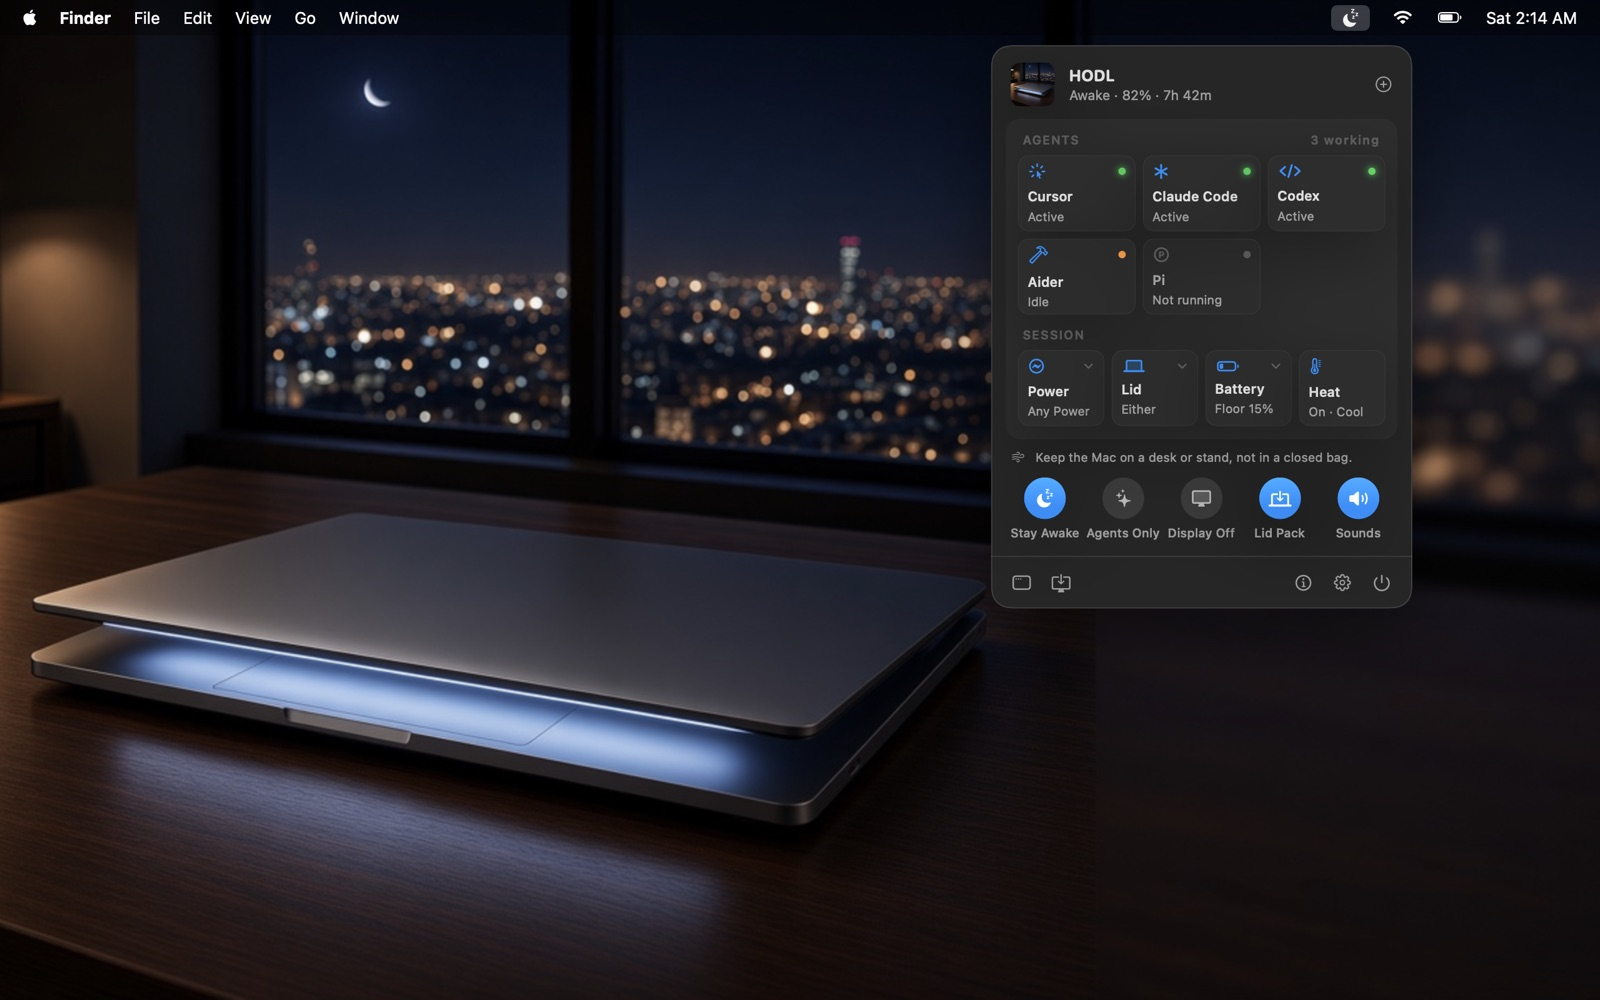
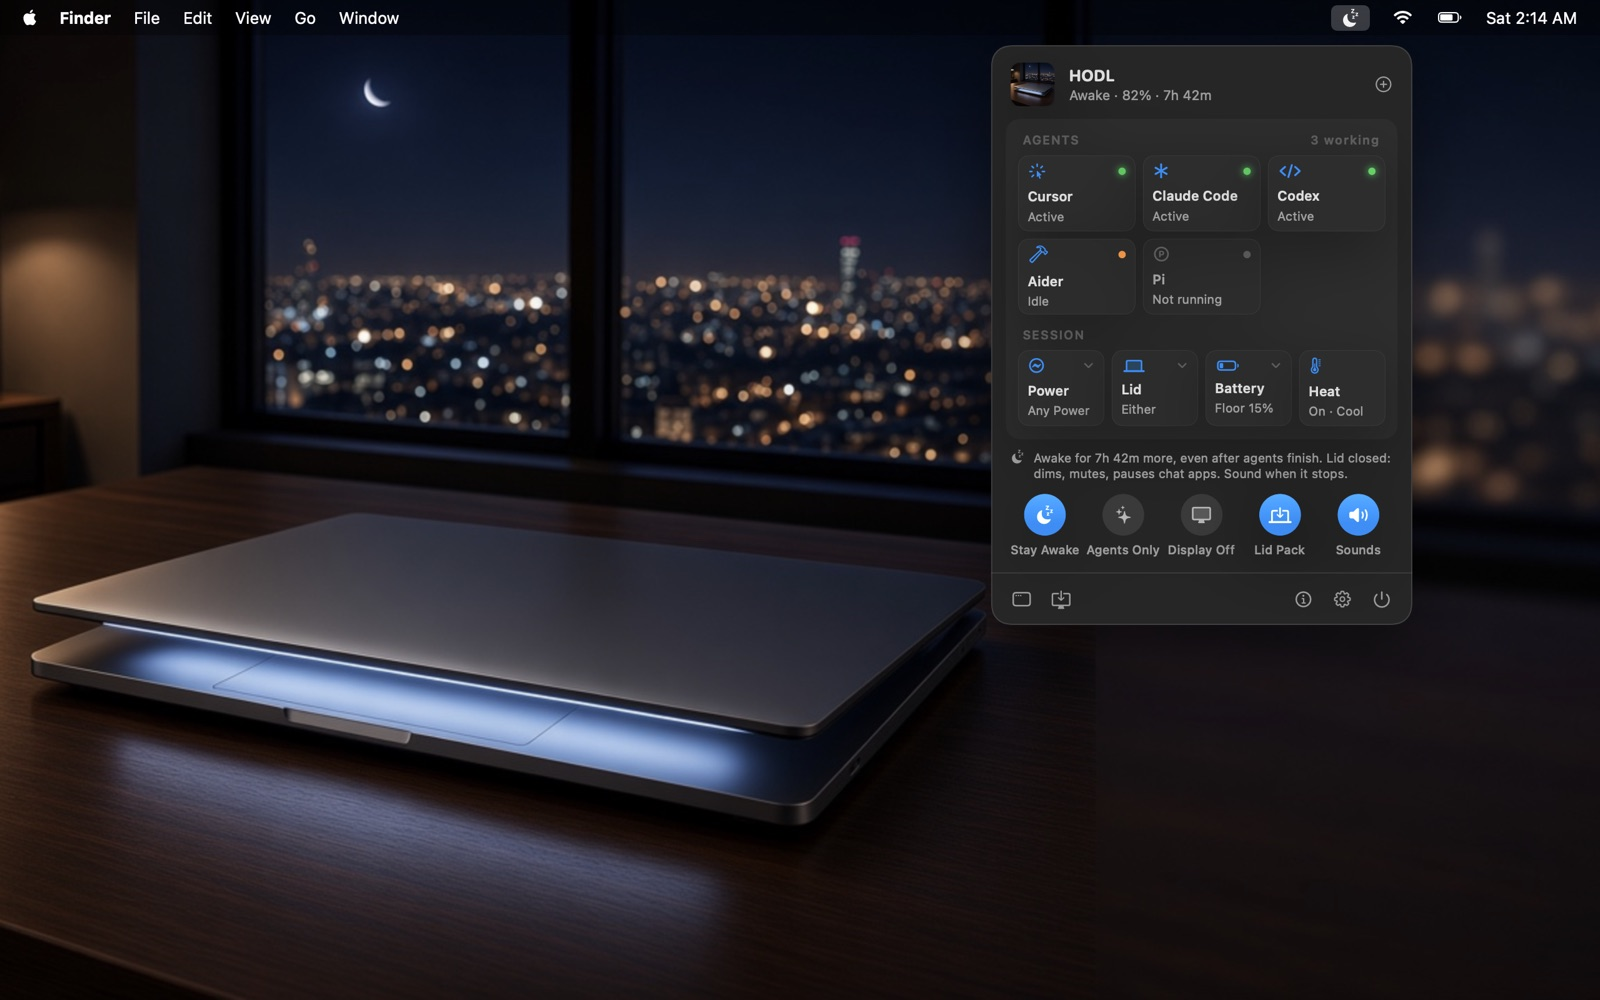
Explain the switches in the panel, apply Agents Only right away, and release 1.0.1

diff --git a/Sources/HODL/UI/MenuPanel.swift b/Sources/HODL/UI/MenuPanel.swift
@@ -226,15 +226,28 @@ struct MenuPanel: View {
             Label { Text(verbatim: refusal).lineLimit(2) } icon: { Image(systemName: "info.circle") }
                 .font(.caption).foregroundStyle(.secondary)
                 .frame(maxWidth: .infinity, alignment: .leading)
-        } else if let release = engine.lastRelease, engine.session == nil {
-            Label { Text(verbatim: release.reason.sentence).lineLimit(2) } icon: { Image(systemName: "moon") }
-                .font(.caption).foregroundStyle(.secondary)
-                .frame(maxWidth: .infinity, alignment: .leading)
         } else {
-            Label("Keep the Mac on a desk or stand, not in a closed bag.", systemImage: "wind")
-                .font(.caption).foregroundStyle(.secondary)
-                .frame(maxWidth: .infinity, alignment: .leading)
+            Label { Text(verbatim: switchSummary).lineLimit(3).fixedSize(horizontal: false, vertical: true) } icon: {
+                Image(systemName: engine.session == nil ? "moon" : "moon.zzz.fill")
+            }
+            .font(.caption).foregroundStyle(.secondary)
+            .frame(maxWidth: .infinity, alignment: .leading)
         }
+    }
+
+    /// What the five switches below add up to, in plain words.
+    private var switchSummary: String {
+        guard let session = engine.session else {
+            return adaptive
+                ? "Off: the Mac sleeps as usual. Turn on Stay Awake to keep it awake while agents work."
+                : "Off: the Mac sleeps as usual. Turn on Stay Awake to keep it awake overnight."
+        }
+        let left = engine.remaining.map { "for \(HoldEngine.format($0)) more" } ?? "with no time limit"
+        var parts = [session.adaptive ? "Awake while agents work, then sleeps." : "Awake \(left), even after agents finish."]
+        if displayOff { parts.append("Screen off.") }
+        if lidPack { parts.append("Lid closed: dims, mutes, pauses chat apps.") }
+        if playSounds { parts.append("Sound when it stops.") }
+        return parts.joined(separator: " ")
     }
 
     // MARK: Switches
@@ -257,7 +270,7 @@ struct MenuPanel: View {
         .onChange(of: displayOff) { _, on in
             if on, engine.engaged { engine.displayOffNow() }
         }
-        .onChange(of: adaptive) { engine.settingsChanged() }
+        .onChange(of: adaptive) { _, on in engine.setAgentsOnly(on) }
         .onChange(of: lidPack) { engine.settingsChanged() }
     }
 

diff --git a/Sources/HODL/Engine/HoldEngine.swift b/Sources/HODL/Engine/HoldEngine.swift
@@ -150,7 +150,7 @@ final class HoldEngine {
         Ledger.shared.add("awake", watchedApp == nil ? "\(summary) · from \(source)" : "\(summary)")
         if !wasHolding {
             Sounds.hold()
-            Notifier.post("Keeping your Mac awake", "\(summary). Keep the Mac on a desk or stand, not in a closed bag.")
+            Notifier.post("Keeping your Mac awake", "\(summary).")
         }
         evaluate()
         if Prefs.bool(Prefs.displayOff) { sleepDisplay(after: 1.5) }
@@ -220,6 +220,14 @@ final class HoldEngine {
         }
         if engaged { ClosedLid.set(wantsClosedLid) }
         Hotkey.setEnabled(Prefs.bool(Prefs.hotkey))
+        evaluate()
+    }
+
+    /// The Agents Only switch applies to the running session as well as the next one.
+    func setAgentsOnly(_ on: Bool) {
+        guard session != nil, session?.adaptive != on else { return }
+        session?.adaptive = on
+        Ledger.shared.add("awake", on ? "Now only while agents work." : "Now for the whole session, even after agents finish.")
         evaluate()
     }
 

diff --git a/Sources/HODL/UI/SettingsView.swift b/Sources/HODL/UI/SettingsView.swift
@@ -88,6 +88,7 @@ struct SettingsView: View {
         }
         .frame(width: 540)
         .onAppear { NSApp.activate() }
+        .onChange(of: adaptive) { _, on in engine.setAgentsOnly(on) }
         .onChange(of: keepDisplayAwake) { engine.settingsChanged() }
         .onChange(of: preventLock) { engine.settingsChanged() }
         .onChange(of: closedLidOnBattery) { engine.settingsChanged() }
@@ -165,9 +166,6 @@ struct SettingsView: View {
                 Toggle("Let the Mac rest when it gets hot", isOn: $thermalGuard)
                 Text("HODL turns on Low Power Mode when macOS reports serious heat, lets the Mac sleep if it lasts 10 minutes, and at once if it becomes critical.")
                     .font(.caption).foregroundStyle(.secondary)
-            }
-            Section {
-                Label("Keep the Mac on a desk or stand with room to breathe, never in a closed bag or sleeve.", systemImage: "wind")
             }
         }
         .formStyle(.grouped)

diff --git a/Sources/HODL/UI/Marketing.swift b/Sources/HODL/UI/Marketing.swift
@@ -99,7 +99,7 @@ private struct Banners: View {
             banner(time: "6:12 AM", title: "Agents finished",
                    body: "Every agent finished and stayed idle past the timeout. The Mac can sleep normally now.")
             banner(time: "11:48 PM", title: "Keeping your Mac awake",
-                   body: "Awake until 7:00 AM. Keep the Mac on a desk or stand, not in a closed bag.")
+                   body: "Awake until 7:00 AM while agents work.")
                 .opacity(0.85)
                 .scaleEffect(0.96)
         }

diff --git a/Sources/HODL/UI/SessionView.swift b/Sources/HODL/UI/SessionView.swift
@@ -100,9 +100,6 @@ struct SessionView: View {
                     stat("Low Power", power.lowPowerMode ? "On" : "Off")
                     stat("Keeping awake", SleepGuard.shared.summary)
                 }
-                Label("Keep the Mac on a desk or stand, not in a closed bag. macOS battery and thermal limits can still win.",
-                      systemImage: "wind")
-                    .font(.caption).foregroundStyle(.secondary)
             }
             .padding(6)
         }

diff --git a/README.md b/README.md
@@ -13,7 +13,7 @@
 
 ## Download
 
-**[Download HODL 1.0.0](https://github.com/deepujain/hodl/releases/download/v1.0.0/HODL.zip)** (universal, 2.9 MB) · [release notes](https://github.com/deepujain/hodl/releases/tag/v1.0.0) · [website](https://1xaispark.com/apps/hodl.html)
+**[Download HODL 1.0.1](https://github.com/deepujain/hodl/releases/download/v1.0.1/HODL.zip)** (universal, 2.9 MB) · [release notes](https://github.com/deepujain/hodl/releases/tag/v1.0.1) · [website](https://1xaispark.com/apps/hodl.html)
 
 Requires macOS 14 Sonoma or later, on Apple silicon or Intel. Unzip, move HODL to Applications, then right-click it and choose **Open** the first time; the build isn’t notarized yet.
 
@@ -55,7 +55,6 @@ The build uses SwiftPM, `lipo` for a universal binary, the icon rendered from `R
 - **Hard maximum** of 12 hours by default. Adding time never schedules more than the maximum ahead of now. A no-limit session is opt-in and still obeys every safety stop.
 - **Your Low Power Mode wins.** HODL only turns Low Power Mode on, and only when it was off. If you turn it off while HODL is on, HODL forgets its change and won’t turn it back on until the next night.
 - **Clean uninstall.** Settings › General › Uninstall removes hooks (restoring backups), the command-line tools, the closed-lid helper, the login item, and App Nap settings, then moves HODL to the Trash. It refuses while HODL is keeping the Mac awake or anything is still waiting to be put back.
-- **Never in a bag.** HODL says so in the panel, in notifications, and in Settings: keep the Mac on a desk or stand.
 
 ## Features
 
